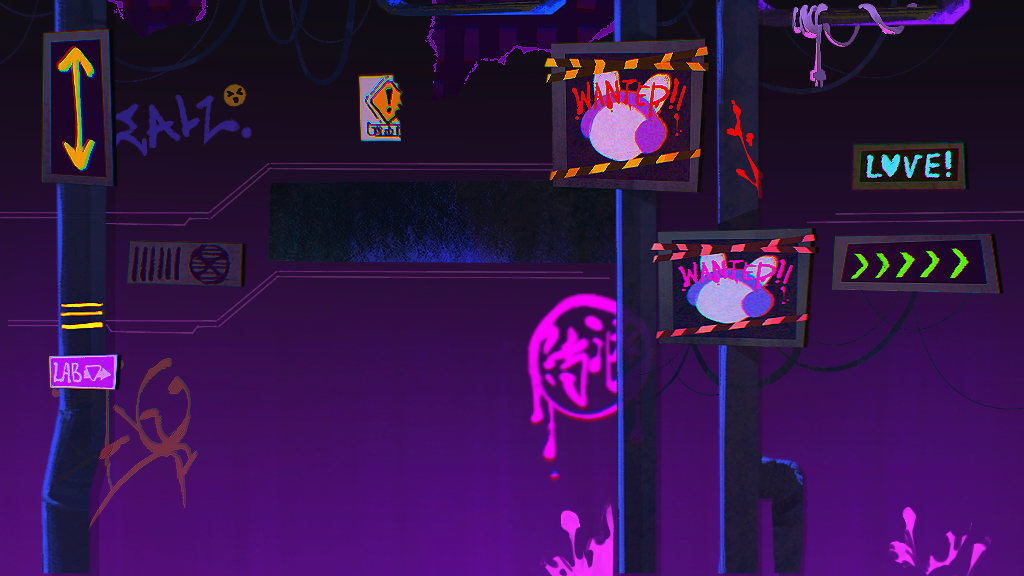
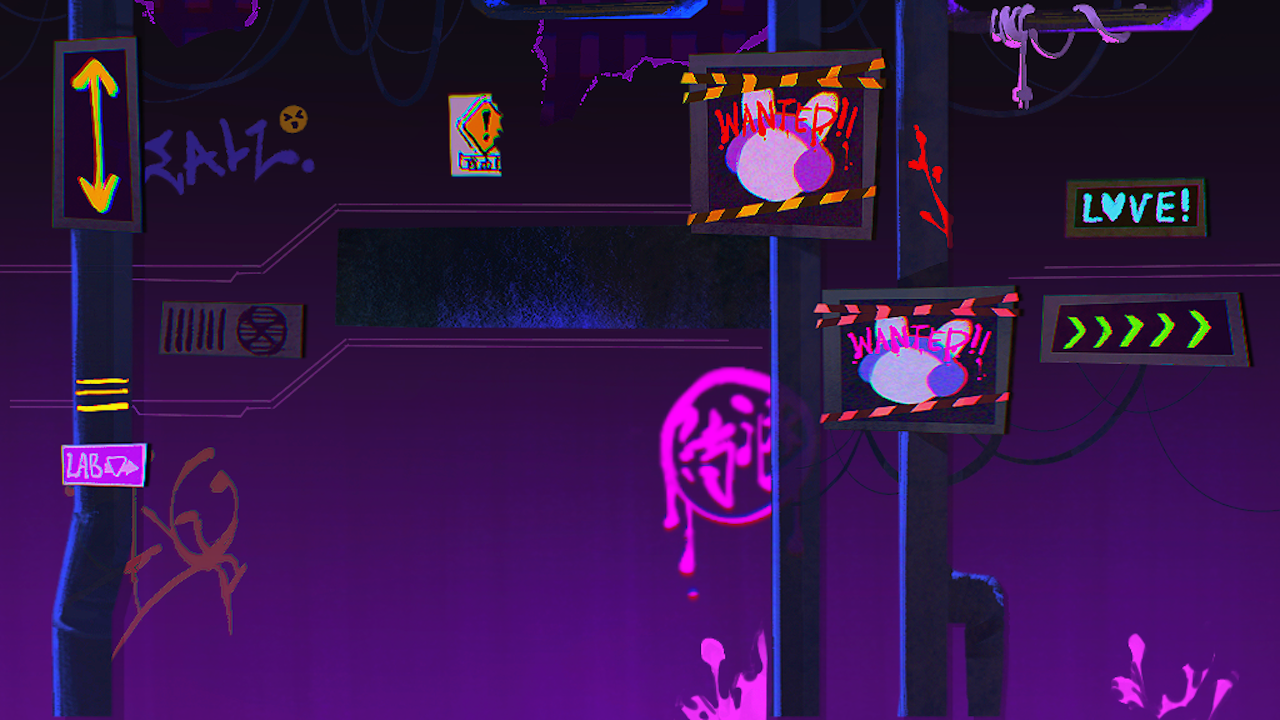
Added background to level select

diff --git a/core/src/edu/cornell/gdiac/rabbeat/levelSelect/LevelSelectorScreen.java b/core/src/edu/cornell/gdiac/rabbeat/levelSelect/LevelSelectorScreen.java
@@ -12,6 +12,7 @@ import com.badlogic.gdx.graphics.g2d.TextureAtlas;
 import com.badlogic.gdx.graphics.g2d.TextureRegion;
 import com.badlogic.gdx.scenes.scene2d.InputEvent;
 import com.badlogic.gdx.scenes.scene2d.Stage;
+import com.badlogic.gdx.scenes.scene2d.ui.Image;
 import com.badlogic.gdx.scenes.scene2d.ui.Skin;
 import com.badlogic.gdx.scenes.scene2d.ui.TextButton;
 import com.badlogic.gdx.scenes.scene2d.utils.ClickListener;
@@ -44,6 +45,13 @@ public class LevelSelectorScreen extends ScreenAdapter {
     public void show() {
         stage = new Stage(new ScreenViewport());
         Gdx.input.setInputProcessor(stage);
+
+        // Background
+        Texture background = new Texture(Gdx.files.internal("backgrounds/test-bg.png"));
+        TextureRegionDrawable backgroundDrawable = new TextureRegionDrawable(new TextureRegion(background));
+        Image bg = new Image(backgroundDrawable);
+        bg.setPosition(0, 0);
+        stage.addActor(bg);
 
         /** Loops through all buttons */
         for(int i=1; i<= numberOfLevels; i++) {
